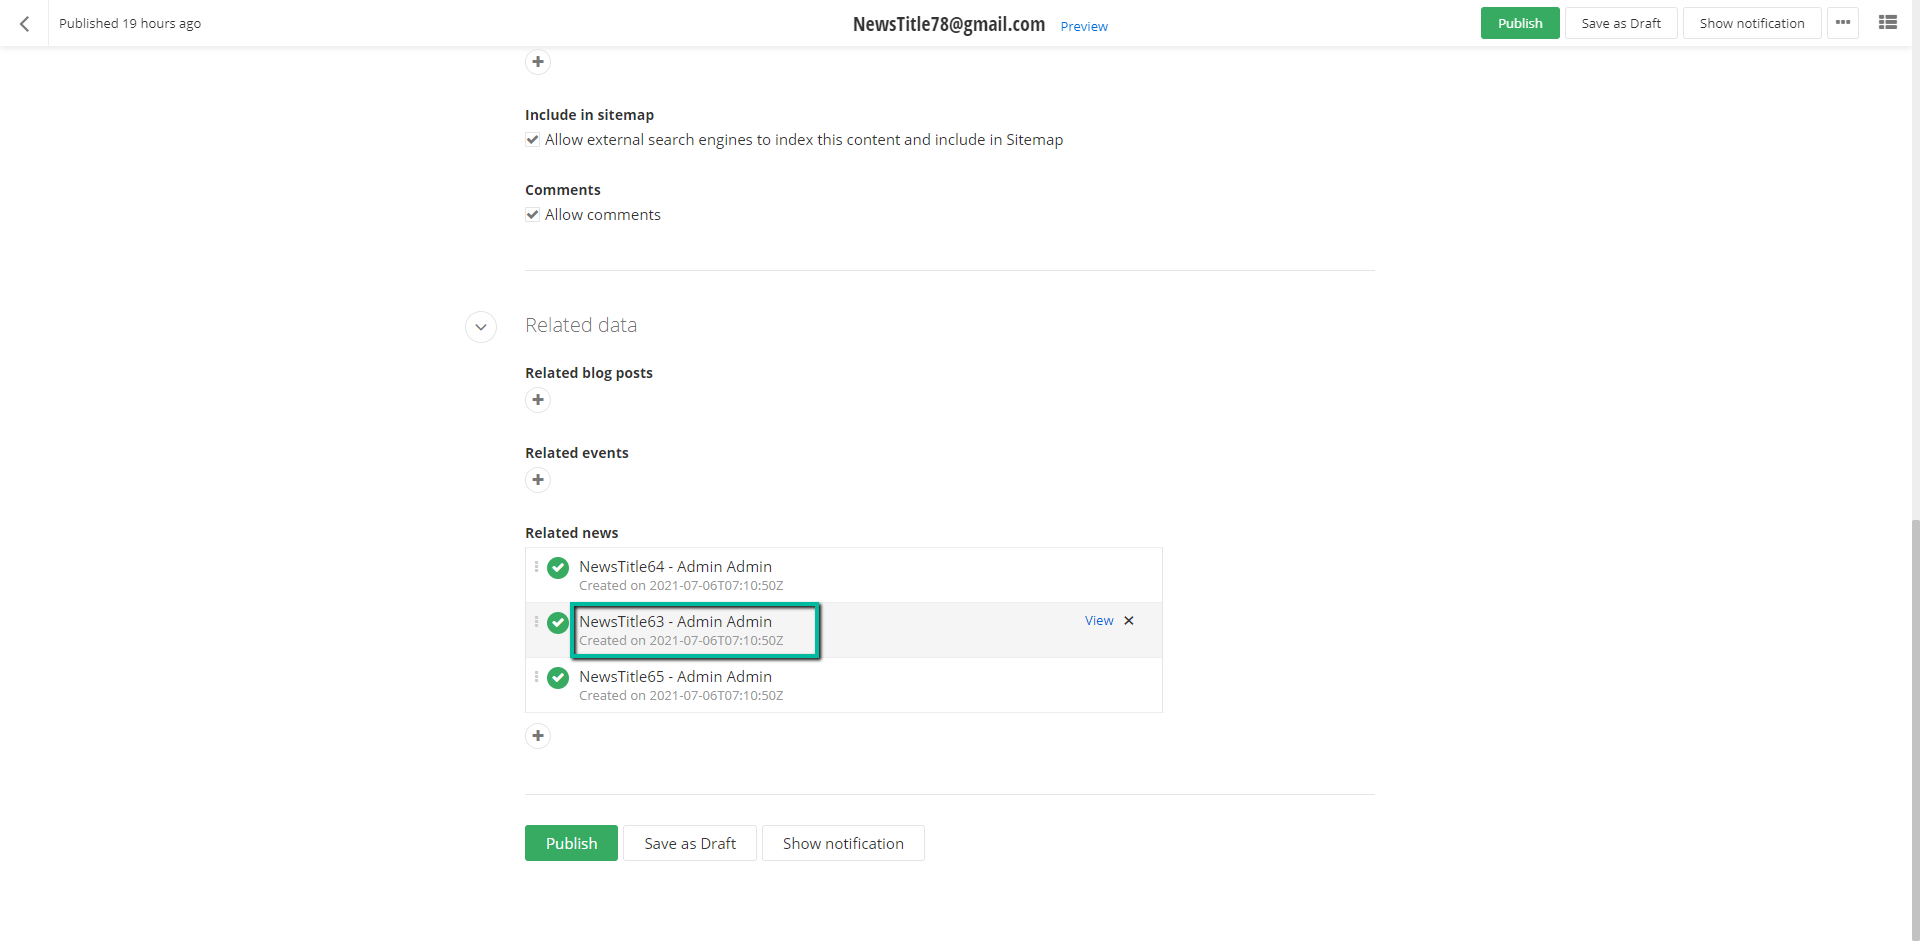
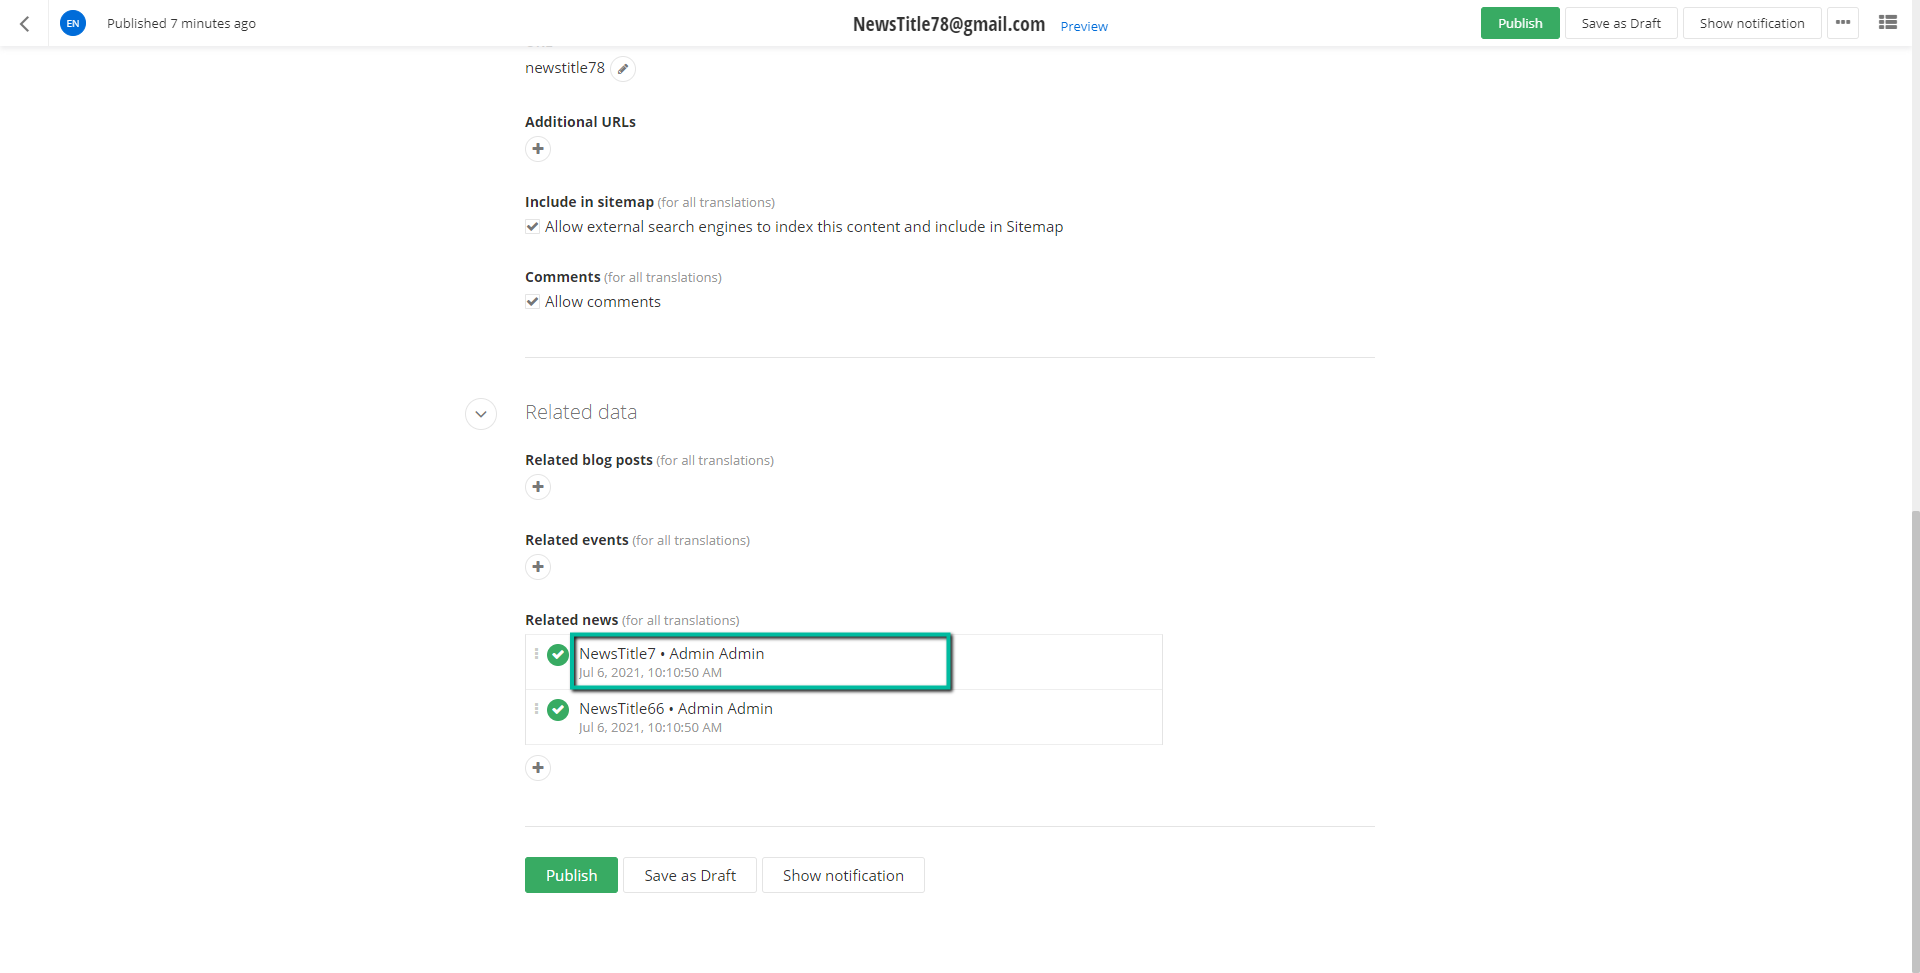
update doc and resourses

diff --git a/src/tree/README.md b/src/tree/README.md
@@ -1,6 +1,6 @@
 # Custom components loaded in the tree
 
-## Intro
+## Introduction
 The tree component in the Sitefinity AdminApp is used in various places in the application, for example, the grid (the list of content items), the sidebar, related data and so forth. This extension will allow you to inject a custom Angualr component in the tree's item template. The picture below shows where the custom component will be rendered in the tree's item template. 
 
 ![Location of where the custom component will be rendered in the tree](./../../assets/tree/sample.png)
@@ -103,20 +103,21 @@ Implement a component as you normally would in Angular, with just one requiremen
 
 ```typescript
 import { Component, Input } from "@angular/core";
-import { CustomTreeComponentBase } from "@progress/sitefinity-adminapp-sdk/app/api/v1/tree";
+import { DataItem } from "@progress/sitefinity-adminapp-sdk/app/api/v1";
+import { CustomTreeNodeComponentBase } from "@progress/sitefinity-adminapp-sdk/app/api/v1/tree";
 
 @Component({
     template: `
-    <div>{{item?.Title}} - {{item?.CreatedBy}}</div>
+    <div>{{item.data.Title}} <span >&bull;&nbsp;</span> <span data-sftest="custom-created-by">{{item.data.CreatedBy}}</span></div>
     <div class="sf-tree__description sf-breadcrumb -sf-overflow-ellipsis">
-        <span>
-            Created on {{item?.DateCreated}}
+        <span data-sftest="custom-created-on">
+            {{item.data.DateCreated | date:"medium" }}
         </span>
     </div>
     `
 })
-export class RelatedDataCustomComponent extends CustomTreeComponentBase {
-    @Input() item: any;
+export class RelatedDataCustomComponent extends CustomTreeNodeComponentBase {
+    @Input() item: DataItem;
 }
 
 ```
@@ -247,8 +248,9 @@ Last but not least, we must create a custom angular module for this extension (y
 Custom module: 
 
 ```typescript
+import { CommonModule, DatePipe } from "@angular/common";
 import { NgModule } from "@angular/core";
-import { CUSTOM_TREE_COMPONENT_PROVIDER } from "./related-data-custom-tree-component-provider";
+import { CUSTOM_TREE_COMPONENT_PROVIDER } from "./related-data-custom-tree-node-component-provider";
 import { RelatedDataCustomComponent } from "./related-data-custom.component";
 
 @NgModule({
@@ -259,10 +261,15 @@ import { RelatedDataCustomComponent } from "./related-data-custom.component";
         RelatedDataCustomComponent
     ],
     providers: [
-        CUSTOM_TREE_COMPONENT_PROVIDER
+        CUSTOM_TREE_COMPONENT_PROVIDER,
+        DatePipe
+    ],
+    imports: [
+        CommonModule
     ]
 })
 export class RelatedDateExtenderModule { /* empty */ }
+
 ```
 
 To register the module, go to the `__extensions_index.ts` file and add the following line:
